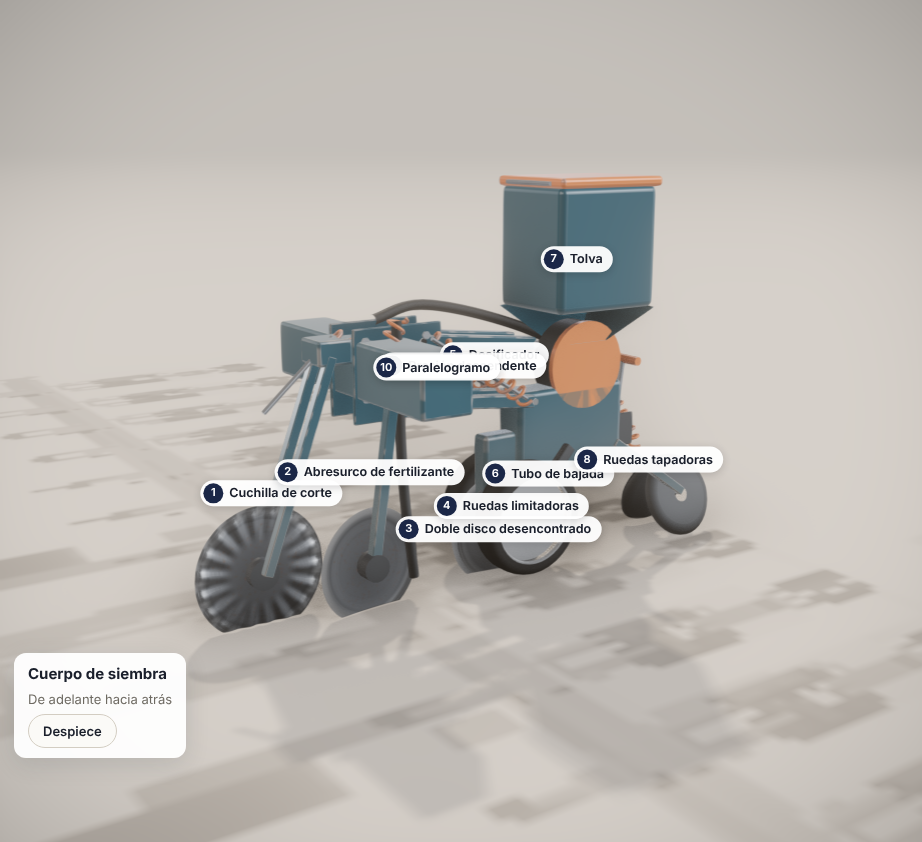
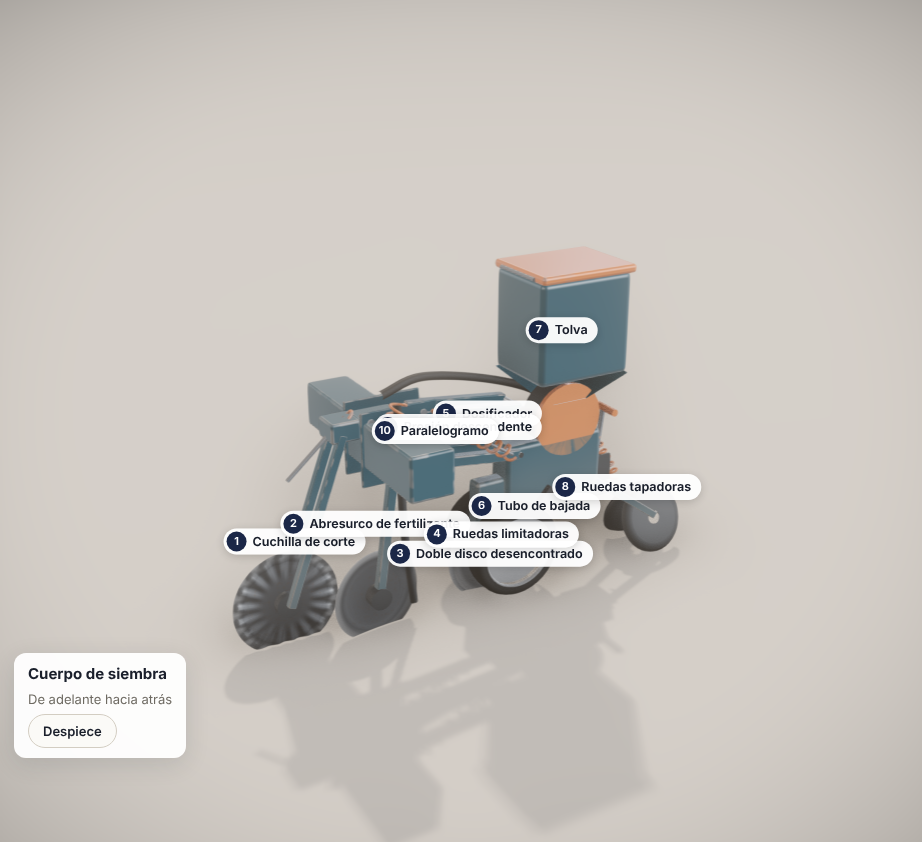
Fase 6: detalle del cuerpo encuadrado con fitShot y etiquetas compactas en celular; capturas finales
Claude-Session: https://claude.ai/code/session_01WMh8Zq1FV1rMtVYhaou2Fb

diff --git a/src/ui/styles.css b/src/ui/styles.css
@@ -785,3 +785,11 @@ input[type='range'] { accent-color: var(--primary); }
 .capture-progress { position: absolute; left: 50%; top: 50%; transform: translate(-50%, -50%); z-index: 30; background: rgba(27, 39, 71, 0.9); color: #fff; padding: 10px 16px; border-radius: 12px; font-size: 13px; font-weight: 700; display: grid; gap: 8px; min-width: 200px; text-align: center; pointer-events: none; box-shadow: var(--shadow); }
 .capture-progress-bar { height: 4px; border-radius: 4px; background: rgba(255, 255, 255, 0.25); overflow: hidden; }
 .capture-progress-bar i { display: block; height: 100%; background: #fff; transition: width 0.12s linear; }
+
+/* detalle del cuerpo en celular: etiquetas y leyenda compactas (el visor es la mitad de la pantalla) */
+@media (max-width: 900px) {
+  .part-label { font-size: 9.5px; padding: 1px 6px 1px 1px; gap: 3px; }
+  .part-label .part-num { width: 15px; height: 15px; font-size: 9px; }
+  .detail-legend { padding: 6px 10px; gap: 3px; }
+  .detail-legend .muted { display: none; }
+}

diff --git a/src/three/CameraRig.tsx b/src/three/CameraRig.tsx
@@ -160,8 +160,9 @@ export function presetShot(p: CamPreset, aspect: number, scene: string, opts: Sh
     case 'rowUnit': {
       const t = new THREE.Vector3(midRowX, 0.48, -0.42);
       if (useStore.getState().detail) {
-        const k = narrow ? 1.45 : 1;
-        return { pos: new THREE.Vector3(3.3 * k, 1.5 * k, 1.9 * k), target: new THREE.Vector3(0, 0.55, -0.35) };
+        // cuerpo de siembra aislado: encuadre exacto de su caja (con aire para las etiquetas)
+        const box = new THREE.Box3(new THREE.Vector3(-0.45, 0, -1.6), new THREE.Vector3(0.45, 1.35, 0.75));
+        return fitShot(box, new THREE.Vector3(3.3, 1.5, 1.9), aspect, pads, narrow ? 1.35 : 1.2, 2);
       }
       return { pos: t.clone().add(new THREE.Vector3(1.9, 0.55, 1.2)), target: t };
     }
